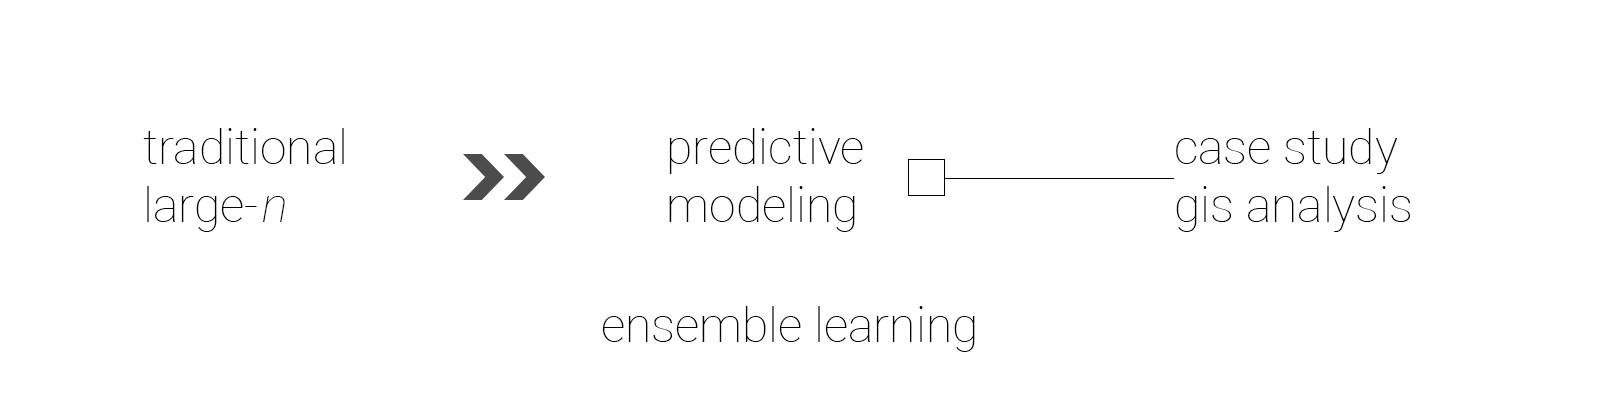
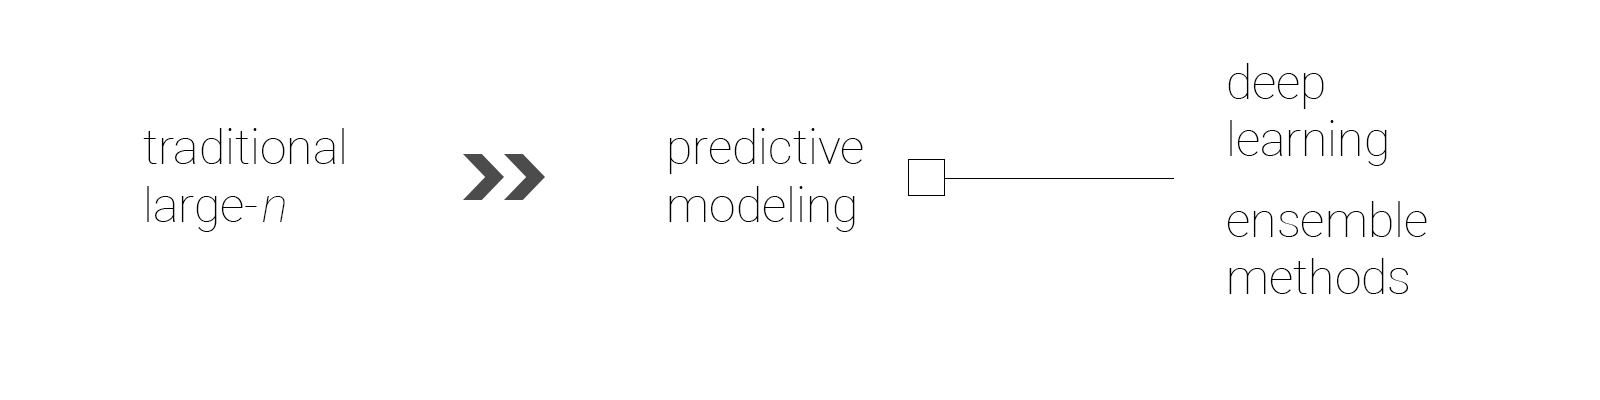
phd upd

diff --git a/content/phd/_index.html b/content/phd/_index.html
@@ -12,8 +12,8 @@ output: html_document
 <h1>Insights from Ensemble Learning</h1>
 <p><br />
 <img src="/img/ensemble.png" /></p>
-<p>I investigate why <em>some</em> civil wars last longer than others. Challenging the dominant rationalist paradigm that champions credible commitment problems as the primary culprit, I focus on making accurate temporal predictions based on structural determinants that leverage the maximum variation in data. More specifically, I posit a theory of strategic decision-making under constraints, in a world where absolute and relative capabilities—both materially and politically—determine the outcome.</p>
-<p>The timeline of my empirical strategy is as follows. First, I inserted absolute and relative capability variables into existing large-<em>n</em> studies on armed conflict duration and replicated them (2015). Then, I created an ensemble learner consisting of about a dozen machine learning algorithms that maximize predictive accuracy (2016). Based on these results, I selected an in-depth case study to gain qualitative insights, which led to two months in Sierra Leone for fieldwork (2017). Finally, I employed Bayesian geostatistics on the Sierra Leone case, testing the hypotheses generated by the case study on about 9k geo-coded instances of territorial control and attack patterns.</p>
-<p>Although ensemble learning is a machine learning concept—a committee of weak learners aggregating into a strong learner—I utilize it in two ways in my dissertation. First, I use a diverse set of algorithms, which have their own strengths and weaknesses, to maximize predictive accuracy. But the whole enterprise can be seen as ensemble learning as well—by combining traditional large-<em>n</em> research, machine learning, case study, and GIS analysis, I aim to make a strong empirical case for conceptualizing conflict duration in a novel way.</p>
-<p>The dissertation is set to be submitted by June 2018.</p>
+<p>I investigate why <em>some</em> wars last longer than others. Challenging the dominant rationalist paradigm that champions credible commitment problems as the primary culprit for the longevity of civil wars, I focus on making accurate temporal predictions based on the structural determinants that leverage the maximum variation in data. More specifically, I posit a theory of strategic decision-making under constraints, in a world where absolute and relative capabilities—material, physical, and political—determine the outcome.</p>
+<p>My empirical strategy is as follows. First, using the Cunningham and Lemke <a href="https://www.cambridge.org/core/journals/international-organization/article/combining-civil-and-interstate-wars/F58D663E5D6896BFFC84A1406713B849">(2013)</a> data, which contains features on both interstate and civil wars, I explore the determinants of conflict duration. Second, I replicate approx. 40 studies on conflict duration published since 2004. I train various machine learning algorithms on the duration studies to identify and compare variable importance measures across studies. Finally, I train deep learning models using Keras on the Cunningham and Lemke dataset to capture the complex underlying interactions and make temporal predictions.</p>
+<p>Although ensemble learning is a machine learning concept—a committee of weak learners aggregating into a strong learner—I utilize it in two ways in my dissertation. First, I use a diverse set of algorithms, which have their own strengths and weaknesses, to maximize predictive accuracy. But the whole enterprise can be seen as ensemble learning as well—by combining traditional large-<em>n</em> research, machine learning, and a shadow case study, I aim to make a strong empirical case for conceptualizing conflict duration in an unified way.</p>
+<p>The dissertation is set to be submitted by July 2018.</p>
 </div>
